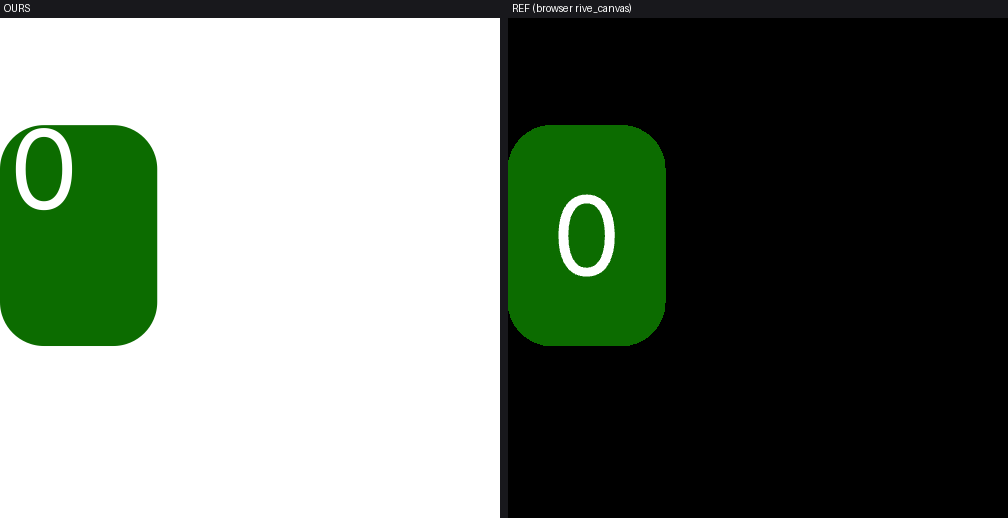
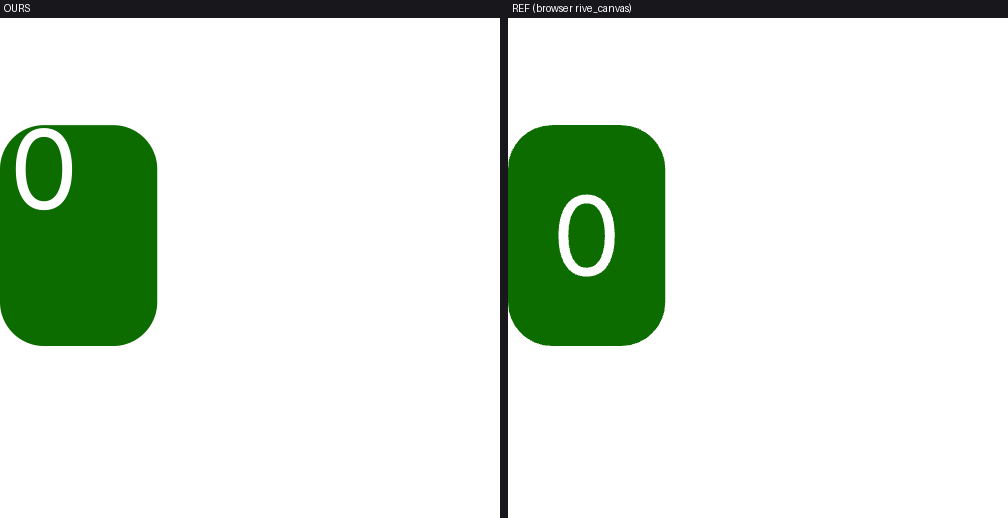
gallery: flatten transparent sides over each gate's comp colour
Pair composites pasted RGBA and dropped alpha, so semi-transparent
references displayed their raw RGB under alpha=0 (black) instead of the
appearance the oracle actually scored. composite() now alpha-composites
over gates.json's comp, matching pixel_oracle's --comp path.

Generated with [Devin](https://devin.ai)

diff --git a/oracle/gallery.py b/oracle/gallery.py
@@ -32,35 +32,40 @@ def load_gates():
             sys.exit("gallery: verdict for gate %s is missing or was computed on different files "
                      "-- re-run oracle/run_gates.py" % g["gate"])
         note = g["note"] if v["verdict"] == "PASS" else "%s  [failed: %s]" % (g["note"], ", ".join(v["failed"]))
-        out.append((g["gate"], os.path.join(IMG, g["ours"]), os.path.join(IMG, g["ref"]), v["verdict"], note))
+        out.append((g["gate"], os.path.join(IMG, g["ours"]), os.path.join(IMG, g["ref"]), g["comp"], v["verdict"], note))
     return out
 
-def load(p):
-    im = Image.open(p).convert("RGBA")
-    return im
-
-def composite(ours_p, ref_p, out_p, label):
-    o, r = load(ours_p), load(ref_p)
+def composite(ours_p, ref_p, out_p, label, comp):
+    # Match pixel_oracle's --comp handling: a semi-transparent side is
+    # flattened over the gate's declared clear colour so the pair shows the
+    # rendered appearance, not raw RGB under alpha=0 (which displays black).
+    def flat(p):
+        im = Image.open(p).convert("RGBA")
+        if comp is None:
+            return im.convert("RGB")
+        bg = Image.new("RGBA", im.size, tuple(comp) + (255,))
+        return Image.alpha_composite(bg, im).convert("RGB")
+    o, r = flat(ours_p), flat(ref_p)
     h = max(o.height, r.height)
     w = o.width + r.width + 8
-    canvas = Image.new("RGBA", (w, h + 18), (24, 24, 28, 255))
+    canvas = Image.new("RGB", (w, h + 18), (24, 24, 28))
     dr = ImageDraw.Draw(canvas)
-    dr.text((4, 2), "OURS", fill=(255, 255, 255, 255))
-    dr.text((o.width + 12, 2), "REF (browser rive_canvas)", fill=(255, 255, 255, 255))
+    dr.text((4, 2), "OURS", fill=(255, 255, 255))
+    dr.text((o.width + 12, 2), "REF (browser rive_canvas)", fill=(255, 255, 255))
     canvas.paste(o, (0, 18))
     canvas.paste(r, (o.width + 8, 18))
-    canvas.convert("RGB").save(out_p)
+    canvas.save(out_p)
     return (o.width, h)
 
 def main():
     rows, missing = [], []
-    for gate, op, rp, verdict, note in load_gates():
+    for gate, op, rp, comp, verdict, note in load_gates():
         if not os.path.isfile(op) or not os.path.isfile(rp):
             missing.append((gate, op, rp))
             rows.append((gate, None, verdict, note + "  [MISSING: ours=%s ref=%s]" % (os.path.isfile(op), os.path.isfile(rp))))
             continue
         out = os.path.join(IMG, "pair_%s.png" % gate)
-        composite(op, rp, out, gate)
+        composite(op, rp, out, gate, comp)
         rows.append((gate, "images/pair_%s.png" % gate, verdict, note))
     rows.sort(key=lambda r: r[2] != "PASS")  # stable: PASS block, then FAIL block
     # html
